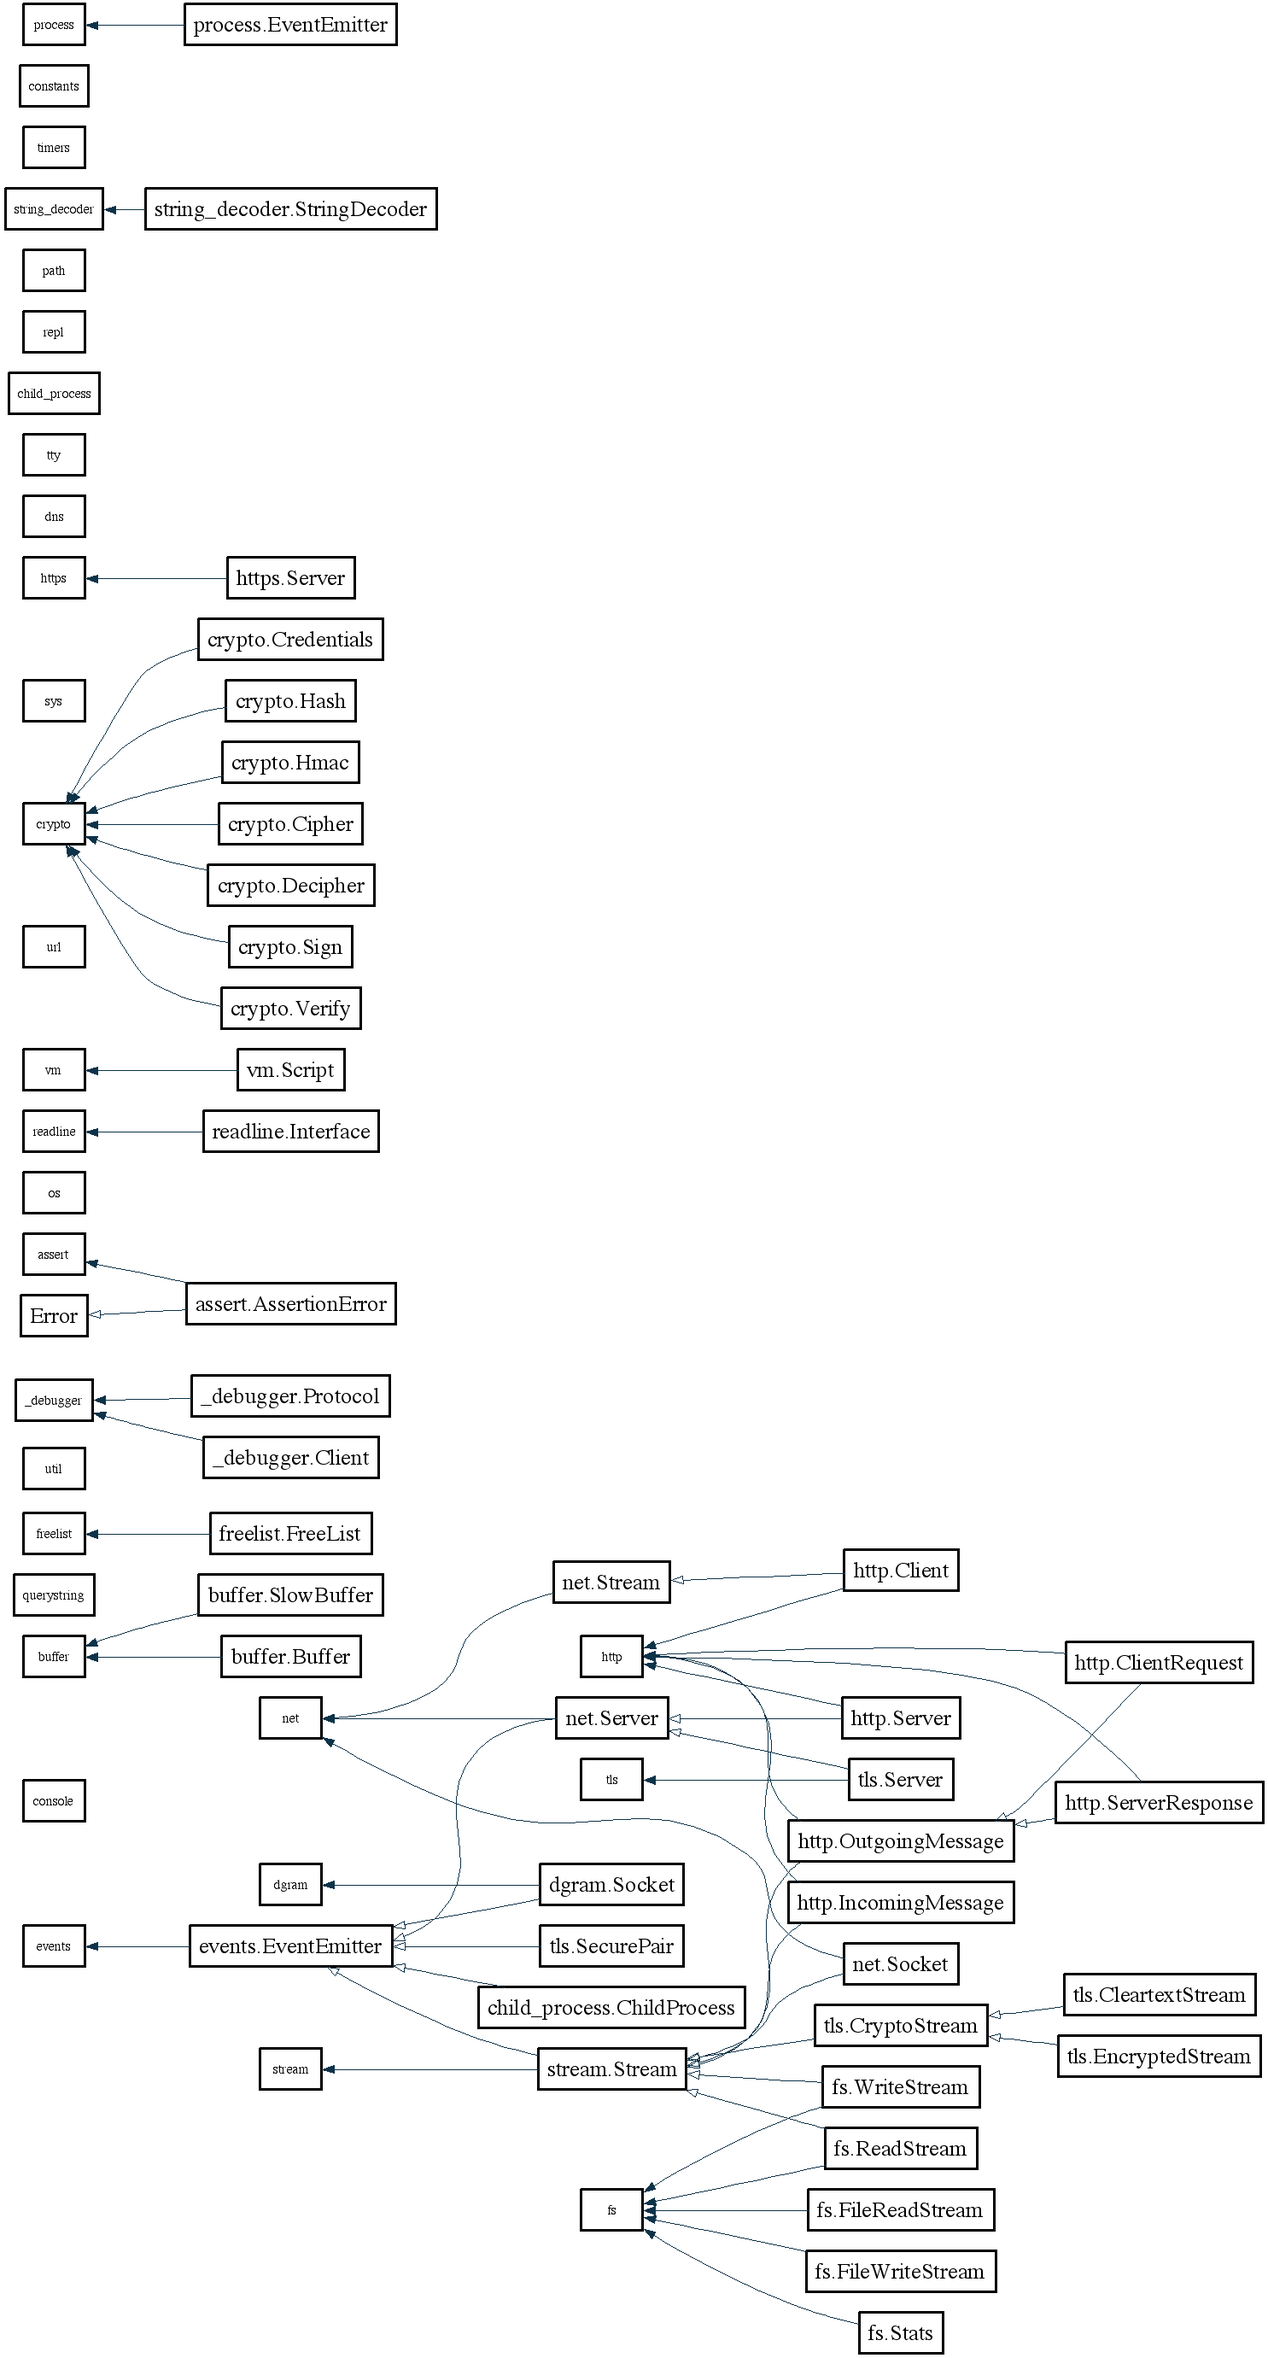
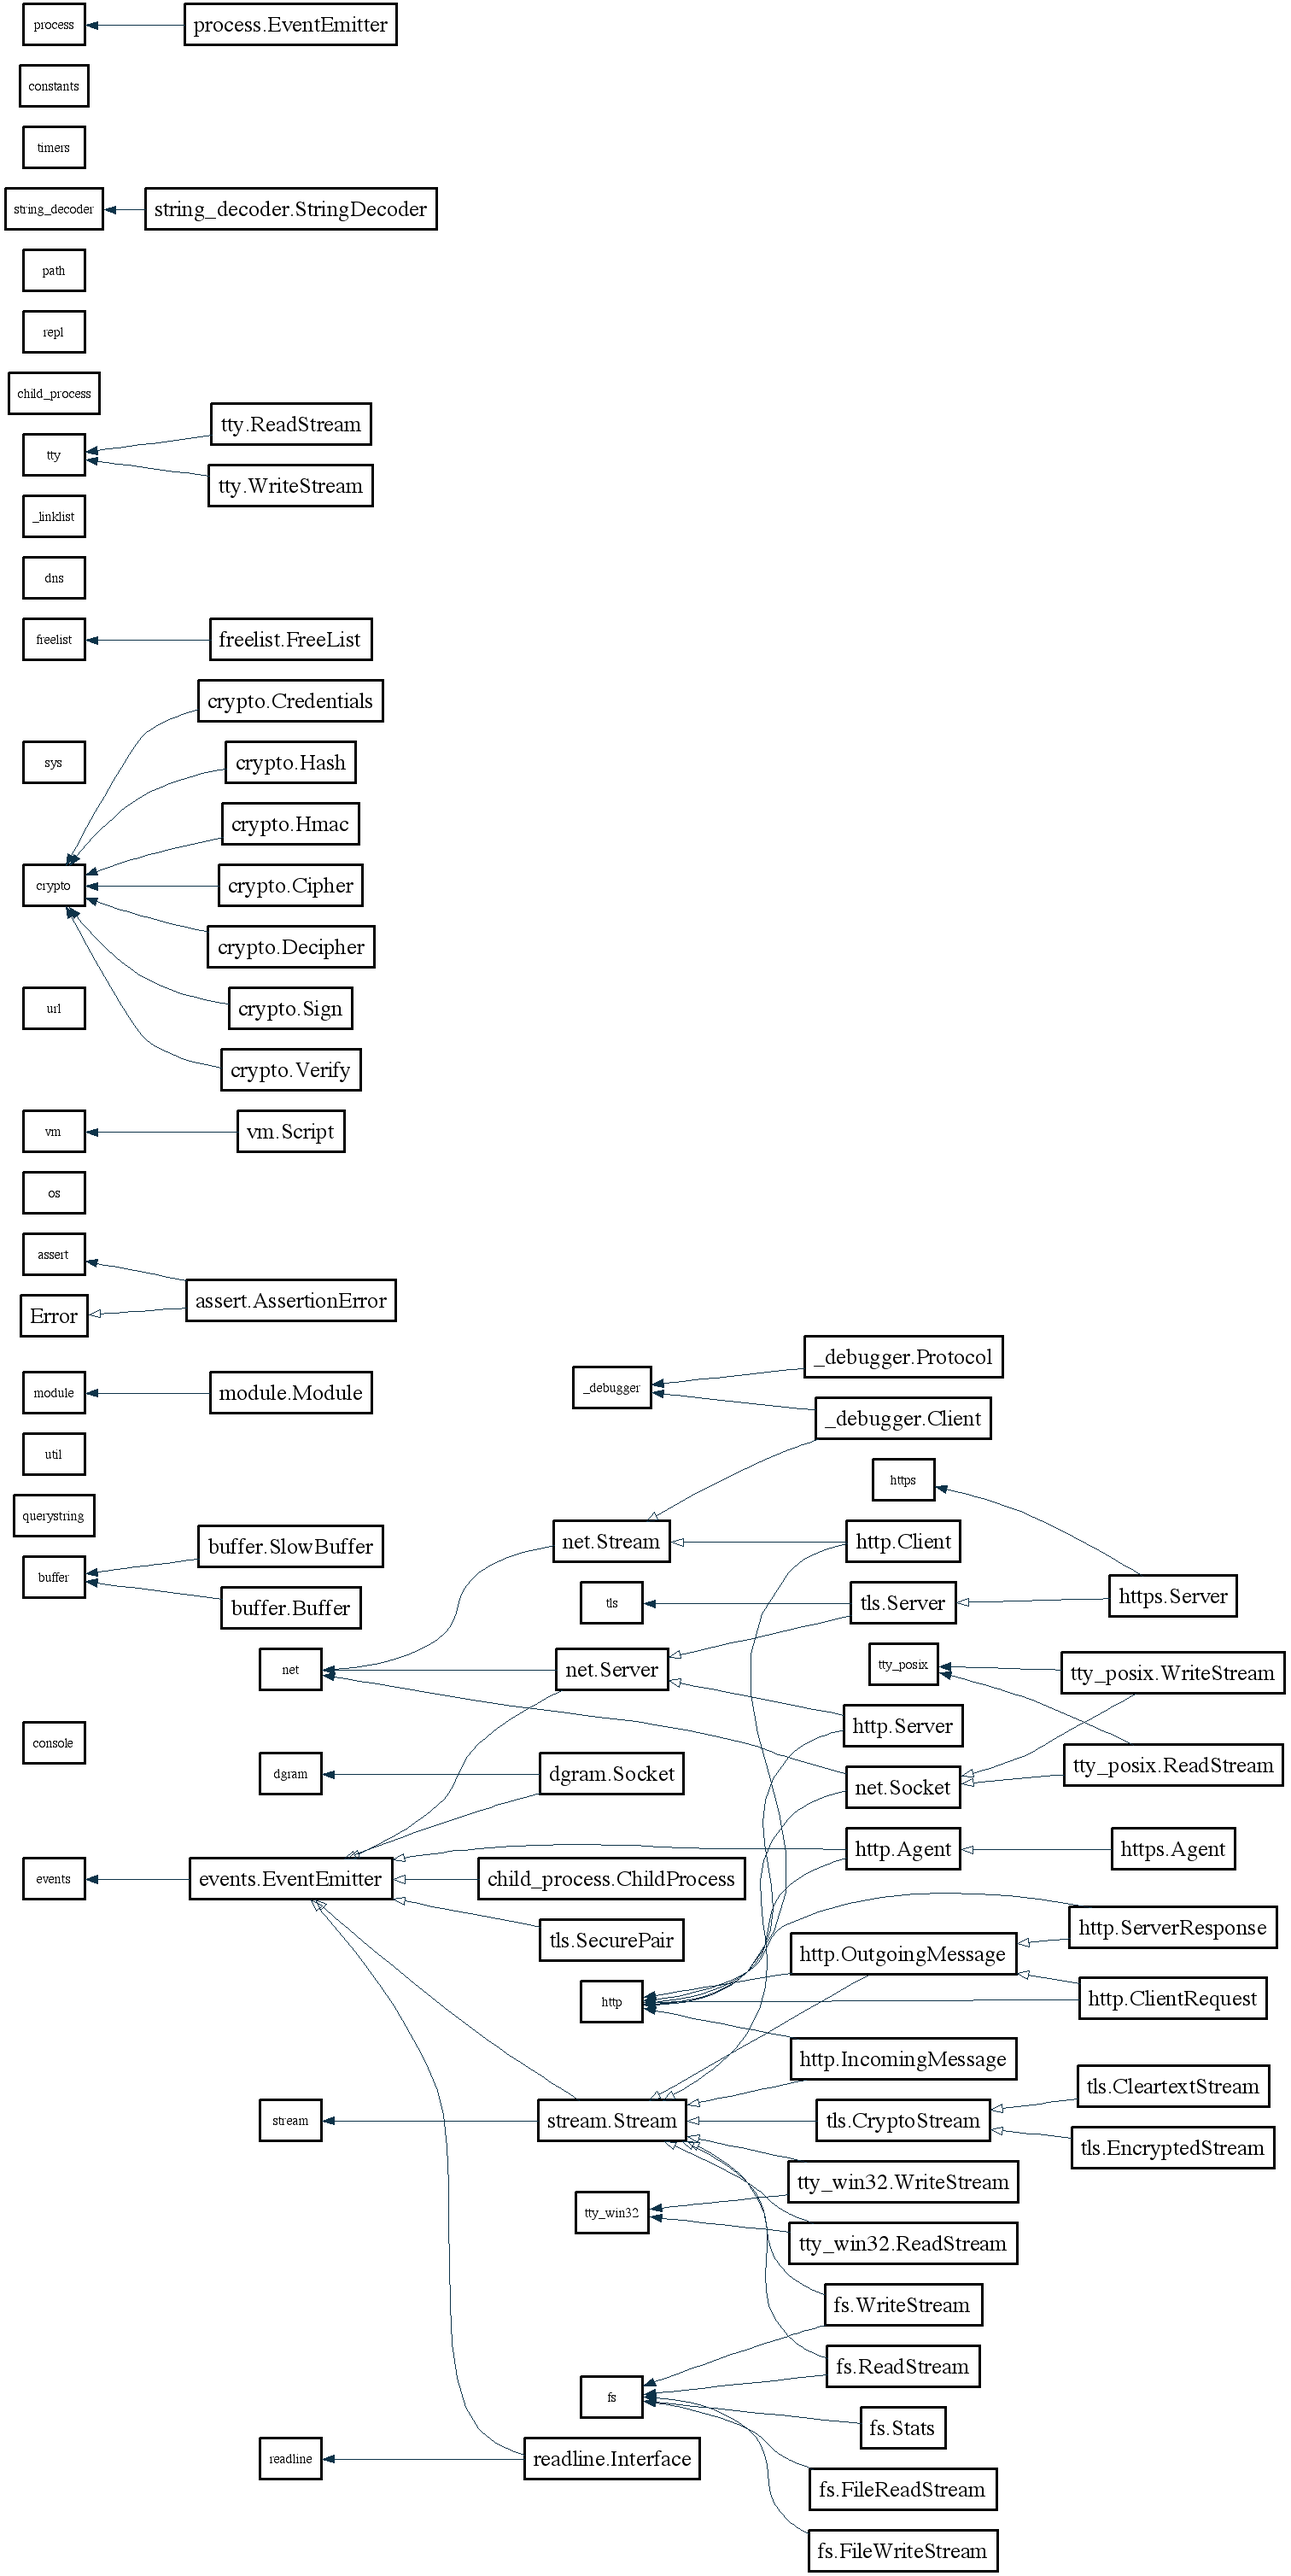
bug fixes.

diff --git a/node-objects-diagram.js b/node-objects-diagram.js
@@ -4,7 +4,7 @@ var path = require('path');
 var natives = process.binding('natives');
 var moduleName;
 var NODE_SRC_DIR = process.argv[2]; // path to target source code like '/Users/nsy/node/src/HEAD/lib'
-var regexStr = 'util\\.inherits\\(([a-zA-Z.]+), \\s*([a-zA-Z.]+)\\)';
+var regexStr = '(util\\.)?inherits\\(([a-zA-Z.]+), \\s*([a-zA-Z.]+)\\)';
 var regex = new RegExp(regexStr);
 var regexG = new RegExp(regexStr, 'g');
 var withAllProperties = process.argv[3] === '-a'; //outputs all properties in public, not only Classes
@@ -99,14 +99,14 @@ function searchParent(graph, moduleName) {
     results.forEach(function(result) {
       //console.log(moduleName+': '+result);
       var res = result.match(regex);
-      if (res.length == 3) {
-        var child = res[1].indexOf('.') > -1 ? res[1] : moduleName+'.'+res[1];
+      if (res.length == 4) {
+        var child = res[2].indexOf('.') > -1 ? res[2] : moduleName+'.'+res[2];
         //hack
-        var parent = res[2].indexOf('.') > -1        ? res[2]  :
-                           'Error' === res[2]        ? 'Error' :
-                           'Stream' === res[2]       ? 'stream.Stream' :
-                           'EventEmitter' === res[2] ? 'events.EventEmitter' :
-                           moduleName+'.'+res[2];
+        var parent = res[3].indexOf('.') > -1        ? res[3]  :
+                           'Error' === res[3]        ? 'Error' :
+                           'Stream' === res[3]       ? 'stream.Stream' :
+                           'EventEmitter' === res[3] ? 'events.EventEmitter' :
+                           moduleName+'.'+res[3];
         if (!exists(graph, child)) {
           graph.addNode(quote(child), classAttr);
         }
